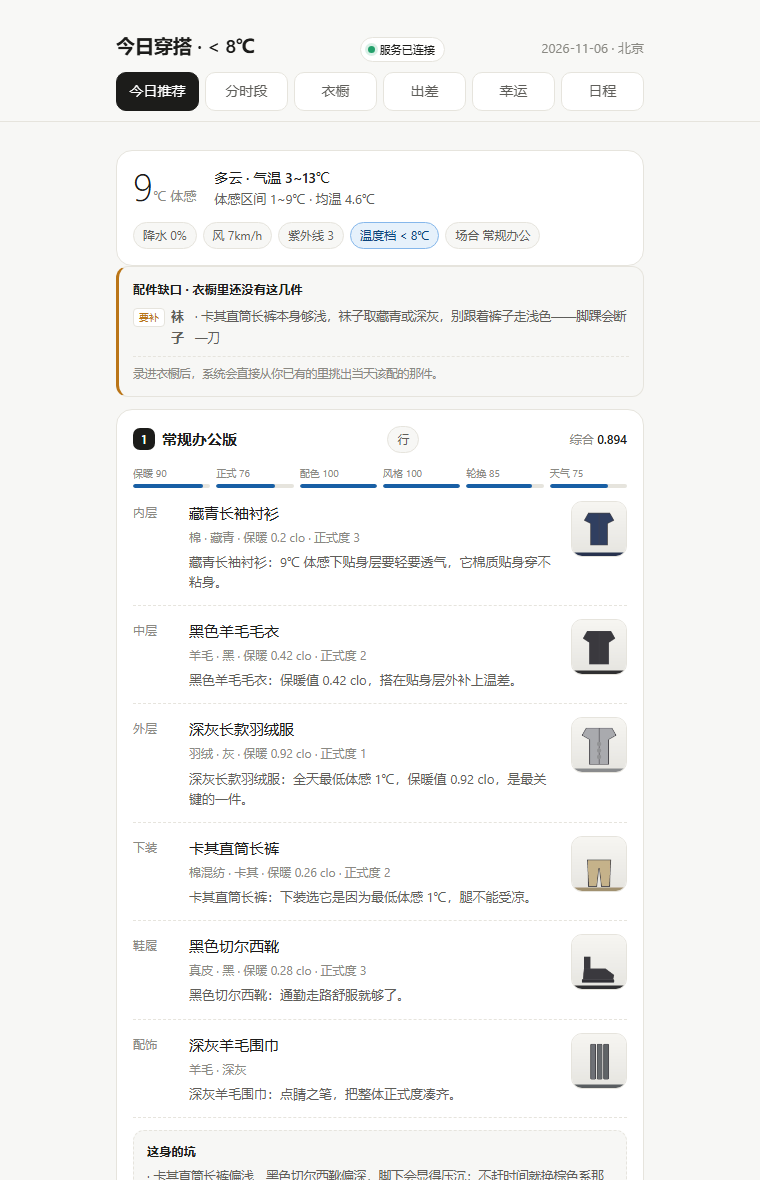
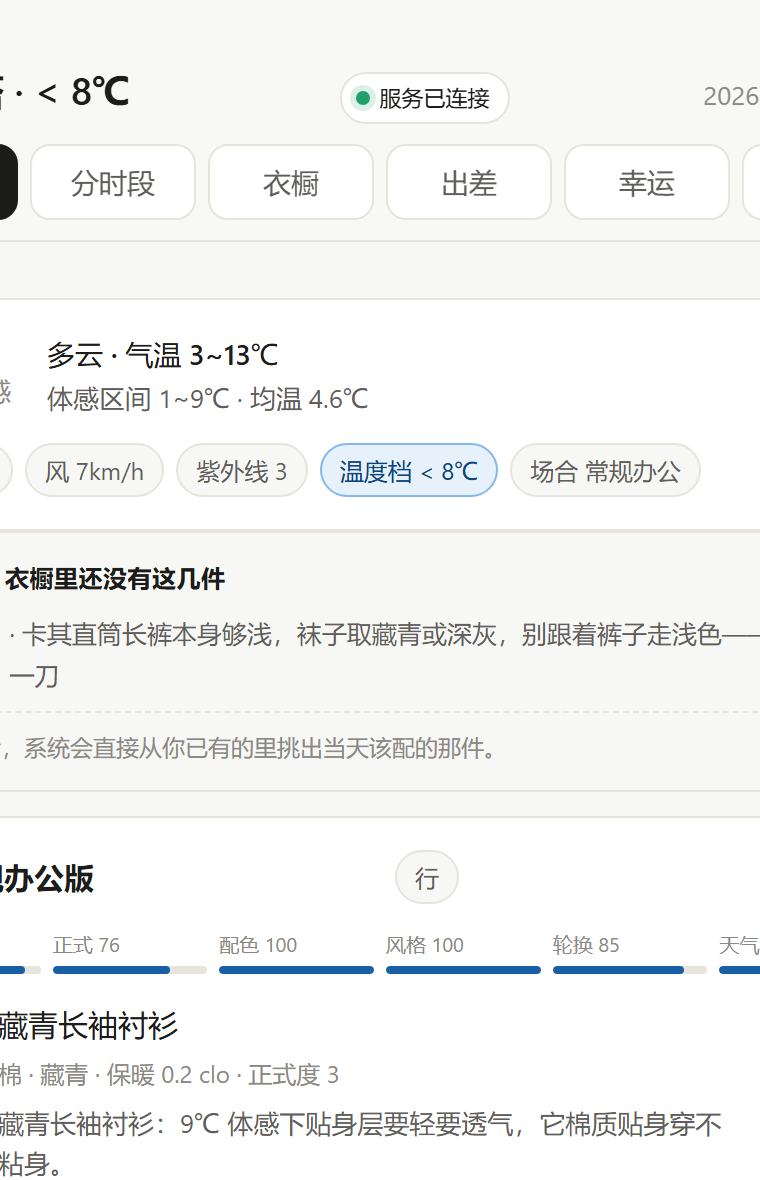
加发布素材与展示图生成脚本
- docs/PUBLISH-COPY.md：面向开发者社区的发布文案
  （Hacker News / Reddit）
- docs/PUBLISH.md 的推广章节改为不点名具体平台的通用表述
- tools/make_shot.sh、tools/make_all_shots.sh：一键重生成
  README 主图与社交预览图
- docs/screenshot.png、docs/social-preview.png：展示图

diff --git a/docs/PUBLISH-COPY.md b/docs/PUBLISH-COPY.md
@@ -1,0 +1,157 @@
+# dressmate 发布文案
+
+> 三个平台各一份。标了「␣」的是需要你替换的地方。
+> 截图在 `docs/screenshot.png`（竖版主图）和 `docs/social-preview.png`（横版封面）。
+
+---
+
+## 一、Hacker News（Show HN）
+
+### 标题
+
+```
+Show HN: dressmate – an outfit recommender that explains itself instead of guessing
+```
+
+### 正文
+
+```
+I built dressmate after noticing that most outfit apps give you the same
+useless output: "This combination looks great! Consider adding some personal
+flair." They take your photo, send it to an LLM, and hand back a paragraph.
+
+The paragraph isn't the problem. The missing "why" is.
+
+dressmate computes outfits from 19 explicit rules instead of a language
+model. Every recommendation tells you which rule fired and why:
+
+    "Navy long-sleeve shirt: at 9°C apparent temperature the base layer
+     needs to be light and breathable; cotton worn against skin won't
+     stick."
+
+    "Khaki straight-leg pants: chosen because the low is 1°C and your legs
+     can't get cold."
+
+    Pitfall: "The khaki pants are too light and the black Chelsea boots too
+     dark — the foot of the outfit will look heavy. If you're not in a hurry,
+     switch to the brown pair."
+
+It also argues with itself in a useful way. This rule, among others:
+
+    "sneaker_dress_pants": 0.45    # sneakers with dress pants
+    "sneaker_tailored_outer": 0.35 # sneakers with a coat or blazer
+
+The style score enters multiplicatively (score *= 1 - 0.40 * (1 - style)).
+With an additive penalty, "sneakers with dress pants" was worth 0.03 points
+and got buried by warmth details. Multiplicative, it actually holds.
+
+Tradeoffs, stated plainly:
+- The rules only know what someone encoded. Coverage is the ceiling.
+- Women's clothing rules are written but under-tested, because most of my
+  fixture data is menswear. This is the part I most want help with.
+- Zero token cost and offline support are real advantages, but they're
+  secondary to explainability. If you'd rather have an LLM's creativity than
+  a rule's accountability, this isn't for you.
+
+Details:
+- 19 rules (12 style penalties + 7 accessory checks), all in
+  engine/styling.py and engine/extras.py, all tweakable
+- 323 cities in an offline coordinate table, weather from Open-Meteo,
+  climate-table interpolation as fallback (3.4°C average error offline)
+- Photos and wardrobe stay on your machine. Nothing is sent unless you
+  configure a vision model endpoint yourself.
+- Path traversal blocked, CSRF protection on by default, optional
+  DRESSMATE_TOKEN for write operations
+- 286 tests, CI runs Python 3.10–3.13 plus a real Docker build and smoke test
+- AGPL-3.0
+
+Repo: https://github.com/zasana0506/dressmate
+```
+
+### 第一条评论（自己回，HN 上很关键）
+
+```
+A few things people usually ask:
+
+- "Why not just use the LLM?" Because I want to know why, and because the
+  answer should be the same tomorrow. The rules are also the unit of
+  improvement — someone can disagree with a rule and change it, which
+  isn't really possible with a prompt.
+- "Is it good for women's clothing?" Honestly, unknown. The rules exist but
+  haven't been exercised against a real wardrobe. That's the main thing I'd
+  like feedback on.
+- "Does it need an API key?" No. Python 3.9+, no dependencies:
+  git clone ... && python server.py
+```
+
+---
+
+## 二、Reddit（r/SideProject 或 r/opensource）
+
+### 标题
+
+```
+I built an outfit recommender that uses 19 rules instead of an LLM, and tells you why
+```
+
+### 正文
+
+```
+Problem: every outfit app sends your photos to a model and returns
+"This outfit looks great!" — with no way to learn from it.
+
+What I built: dressmate, a self-hosted outfit recommender that scores
+outfits with 19 explicit rules and explains each choice.
+
+Example output:
+
+  [Base] Navy long-sleeve shirt
+     At 9°C apparent temperature the base layer needs to be light and
+     breathable; cotton worn against skin won't stick.
+  [Outer] Long charcoal down jacket
+     Low is 1°C all day, 0.92 clo — this is the critical piece.
+
+  Pitfall: The khaki pants are too light and the black Chelsea boots too
+  dark — the foot of the outfit will look heavy. Switch to the brown pair.
+
+  Also needed: socks — khaki pants are light enough on their own, so take
+  navy or charcoal, not a shade that follows the pants. The ankle breaks
+  the line otherwise.
+
+Things it does: picks by weather and occasion, splits your day into
+segments (morning meeting / afternoon client / evening gym = three outfits),
+and plans what to pack for a trip with the weather along the way.
+
+No API key, no token cost, works offline. 323 cities in a local coordinate
+table. Your photos never leave your machine unless you point it at a vision
+model yourself.
+
+Stack: Python stdlib only on the backend, single-file frontend. 286 tests,
+CI on Python 3.10–3.13 plus a Docker build and smoke test.
+
+Honest gaps: it's a rules engine, so coverage is the ceiling. Women's rules
+are written but under-tested — that's what I'd most like help with.
+
+AGPL-3.0: https://github.com/zasana0506/dressmate
+```
+
+---
+
+## 三、一句话版本（发微博 / 群里 / 签名档）
+
+```
+写了个不靠大模型的穿搭推荐器：19 条规则代替一次 API 调用，
+每件都告诉你为什么这么搭，还会挑毛病。零 token 成本，断网可用。
+```
+
+---
+
+## 四、发之前的检查
+
+- [ ] GitHub **Topics 填了**（18 个标签）——不然搜不到，等于没发
+- [ ] GitHub **Description 的「12 条」改成「19 条」**
+- [ ] 仓库 **Description 改成英文版**（冲国际的话）
+- [ ] HN：**标题不要带中文**，正文别太长，别放 GIF
+- [ ] Reddit：选对子版（r/SideProject 比 r/Python 更合适）
+- [ ] 截图：README 用竖版 `docs/screenshot.png`，
+      分享出去用横版 `docs/social-preview.png`

diff --git a/docs/PUBLISH.md b/docs/PUBLISH.md
@@ -145,16 +145,16 @@ python server.py
 
 发出去才有 star，躺着不会有人来。
 
-**小红书**（最有效）：拍一段 15 秒的录屏——拖三件衣服进去，它按今天的天气给出三套，
-每套都告诉你这身哪里不讲究。标题写「我把 2000 件衣服变成了一个会讲道理的搭配器」。
+**短视频平台**：拍一段 15 秒的录屏——拖三件衣服进去，它按今天的天气给出三套，
+每套都告诉你这身哪里不讲究。录屏比静态图有说服力得多。
 
-**知乎 / V2EX**：写一篇「为什么我用规则引擎而不是大模型做穿搭推荐」，
+**技术社区**：写一篇「为什么我用规则引擎而不是大模型做穿搭推荐」，
 这类观点贴在这个赛道上很容易被顶。
 
 **V2EX / 掘金**：直接发「开源了一个自托管的穿搭推荐工具，零依赖零 token 费」，
 带上仓库地址。
 
-**朋友圈 / 群**：先找 3–5 个人用起来，他们提的每个 issue 都是后续 star 的理由。
+**先找到 3–5 个人用起来**，他们提的每个 issue 都是后续 star 的理由。
 
 ---
 
